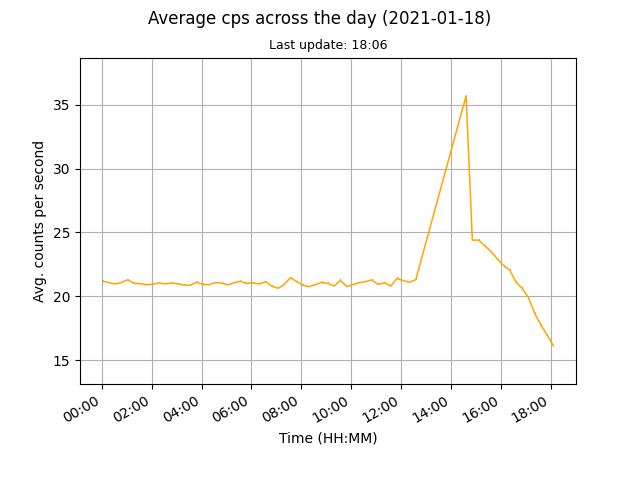
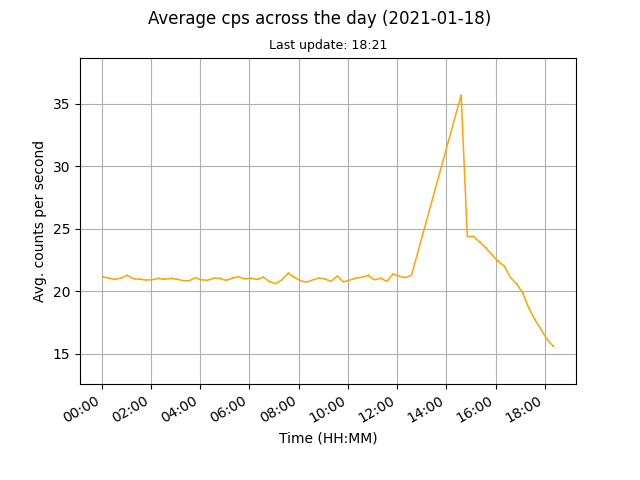
auto data update

diff --git a/docs/index.html b/docs/index.html
@@ -45,8 +45,8 @@
 	
 	<br>
 	
-	<p>Current counts per second (cps): 16.12</p>
-	<p>Last update: 2021-01-18, 18:07</p>
+	<p>Current counts per second (cps): 15.6</p>
+	<p>Last update: 2021-01-18, 18:22</p>
 
 	<p><a href="images/monthly.png"><img src="images/monthly.png" alt="Mothly avg cps data"></a><a href="images/daily.png"><img src="images/daily.png" alt="Daily avg cps data"></a></p>
 	
